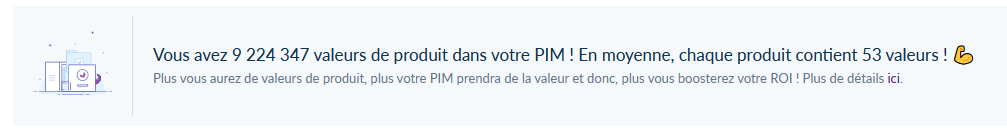
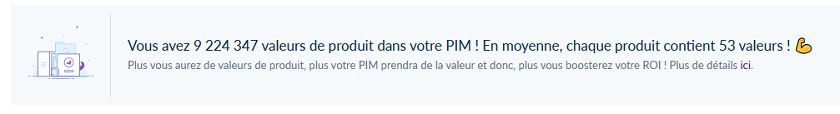
corrections et resize
Quelques corrections et resize des images.

Changed region(s): [[0.1548, 0.3421, 0.9595, 0.4474], [0.1548, 0.5526, 0.8976, 0.6053]]

diff --git a/content/md/administration/catalog-volume-monitoring_fr.md b/content/md/administration/catalog-volume-monitoring_fr.md
@@ -33,27 +33,27 @@ La première est la plus importante. Elle vous donne le nombre total de [valeurs
 
 ![Widget Nombre de valeurs de produits](Activity_CatalogVolumeMonitoring_PvWidget_fr.png)
 
-Nous vous encourageons vraiment à y jeter un coup d'œil de temps en temps. Plus vous avez de valeurs de produit, plus votre PIM est utile!
+Nous vous encourageons vraiment à y jeter un coup d'œil de temps en temps. Plus vous avez de valeurs de produit, plus votre PIM est utile !
 
 Nous avons écrit un [article](https://medium.com/akeneo-labs/because-your-product-catalog-typology-matters-e1a9af4c33e0) pour expliquer pourquoi le nombre de valeurs de produit est un axe très intéressant pour mesurer la taille de votre catalogue. L'article est un peu long mais nous vous promettons que c'est très instructif. Vous ne penserez plus jamais à la taille du catalogue que vous devez gérer de la même manière que vous le faisiez auparavant. ;)
 
 ::: tips
 Vous ne pouvez pas voir le widget dont nous parlons ? C'est dommage !
-Si vous êtes un utilisateur de Community Edition ou travaillez sur une version OnPremise ou sur une version PaaS, c'est probablement parce que vous ou votre administrateur n'a pas lancé le traitement CRON pour calculer les valeurs affichées dans ce widget.
+Si vous êtes un utilisateur de l'édition communautaire ou travaillez sur une version OnPremise ou sur une version PaaS, c'est probablement parce que vous ou votre administrateur n'a pas lancé le traitement CRON pour calculer les valeurs affichées dans ce widget.
 Pour ce faire, veuillez vous reporter à notre documentation technique : [ici](https://docs.akeneo.com/latest/install_pim/manual/installation_ce_archive.html#configuring-tasks-via-crontab) pour les versions CE et [ici](https://docs.akeneo.com/latest/install_pim/manual/installation_ee_archive.html#configuring-tasks-via-crontab) pour EE.
 :::
 
 ### Les autres sections
 
 La section suivante `Axes qui influencent le nombre de valeurs de produit` est dédiée aux différents axes pouvant influer sur le nombre de valeurs de produit.
-Par exemple, plus vous avez de canaux ou de locales, plus vous aurez de valeurs de produit.
+Par exemple, plus vous aurez de canaux ou de locales, plus vous aurez de valeurs de produit.
 
 La section `Axes liés à la structure de votre catalogue` regroupe tous les axes ayant un impact sur la structure de votre catalogue.
 
-La section `Axes concernant la modélisation des produits avec variantes` regroupe le nombre de modèles de produit et de [variantes de produits](what-about-products-variants.html).
+La section `Axes concernant la modélisation des produits avec variantes` regroupe le nombre de modèles de produits et de [variantes de produits](what-about-products-variants.html).
 
 ::: ee
-Dans l'édition Entreprise, il y a une section supplémentaire appelée `Axes sur les ressources` qui vous donnera le volume concernant les [ressources](work-with-assets.html).
+Dans l'édition Entreprise, il y a une section supplémentaire appelée `Axes sur les ressources` qui vous donnera les informations concernant les [ressources](work-with-assets.html).
 :::
 
 ## Les alertes
